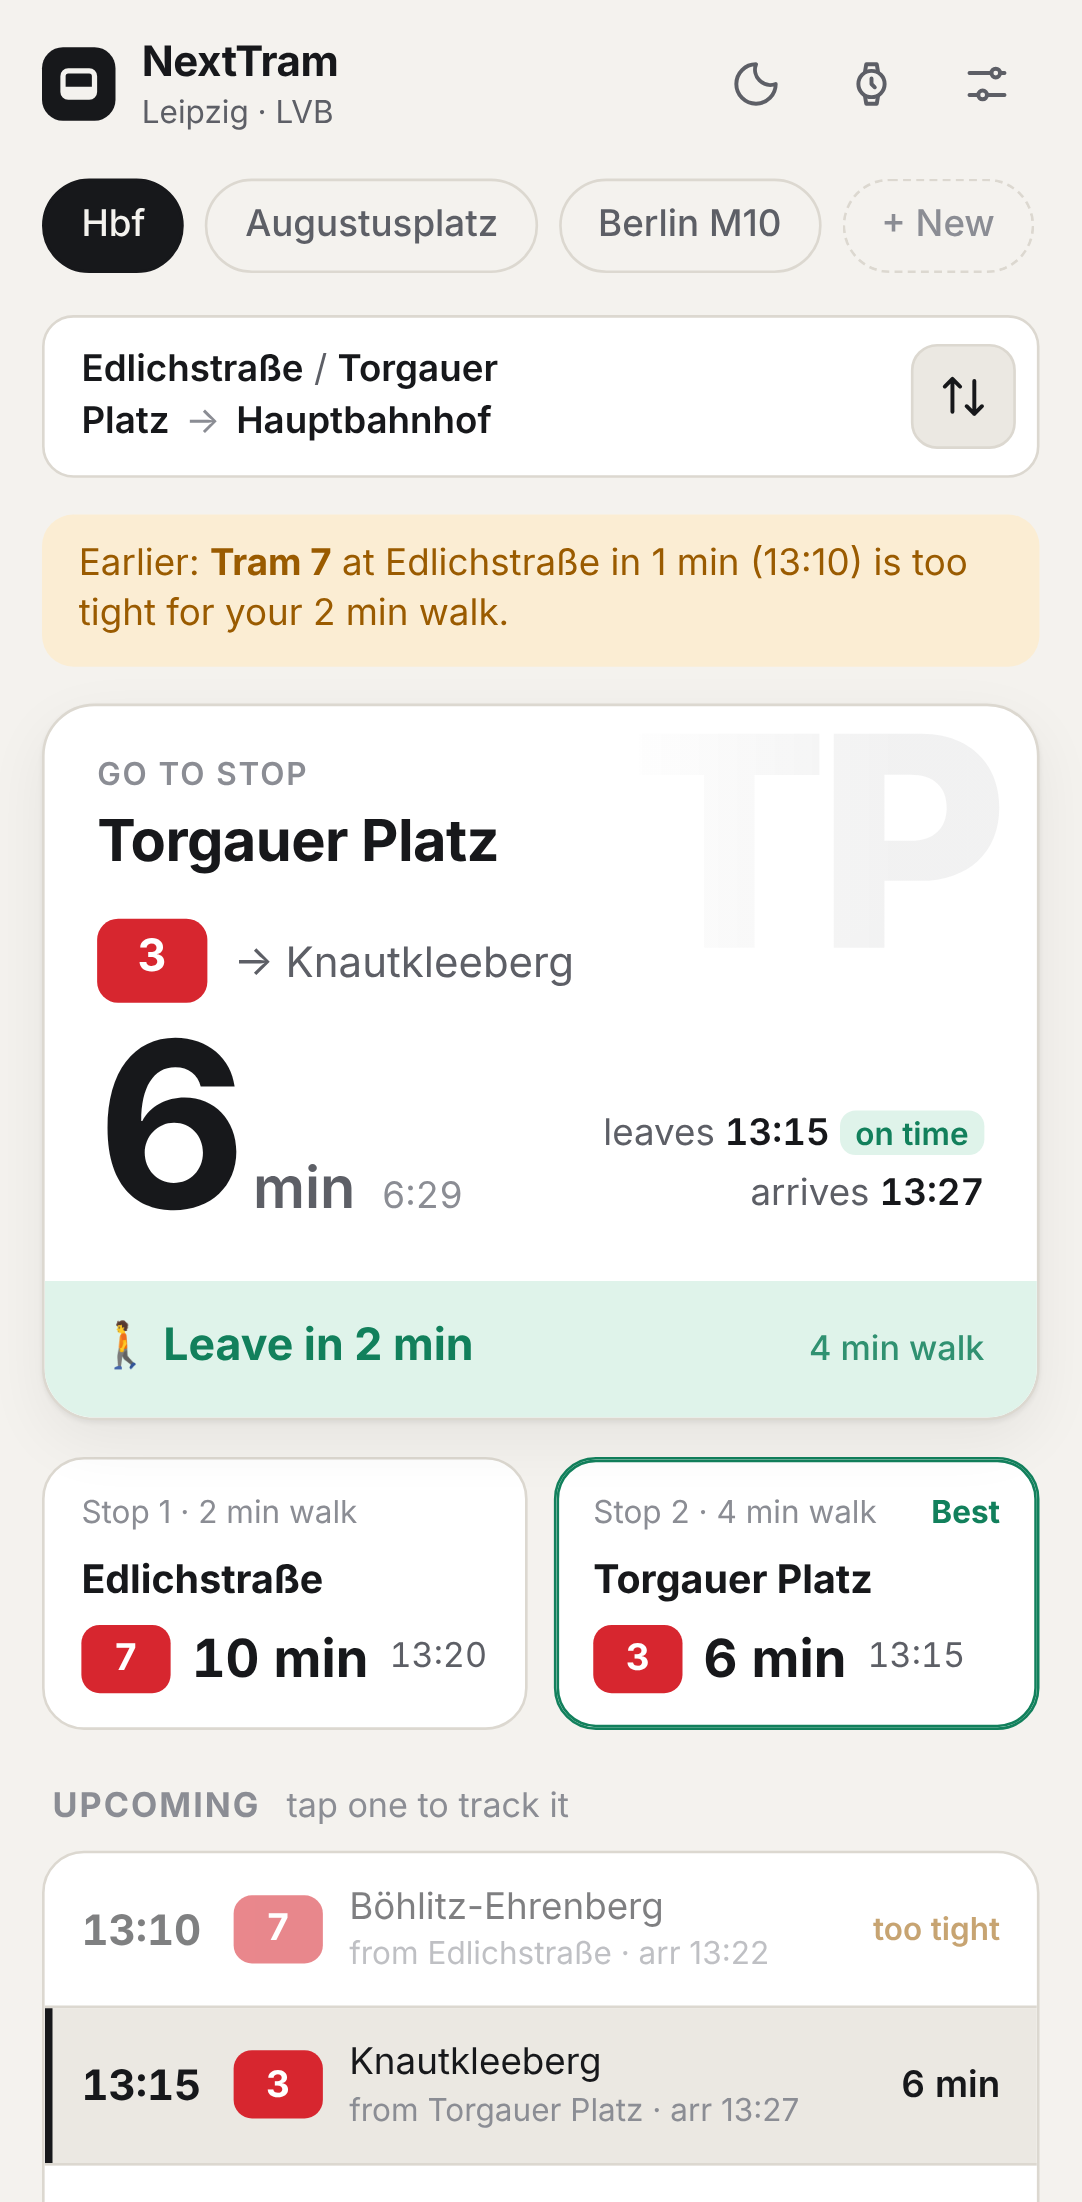
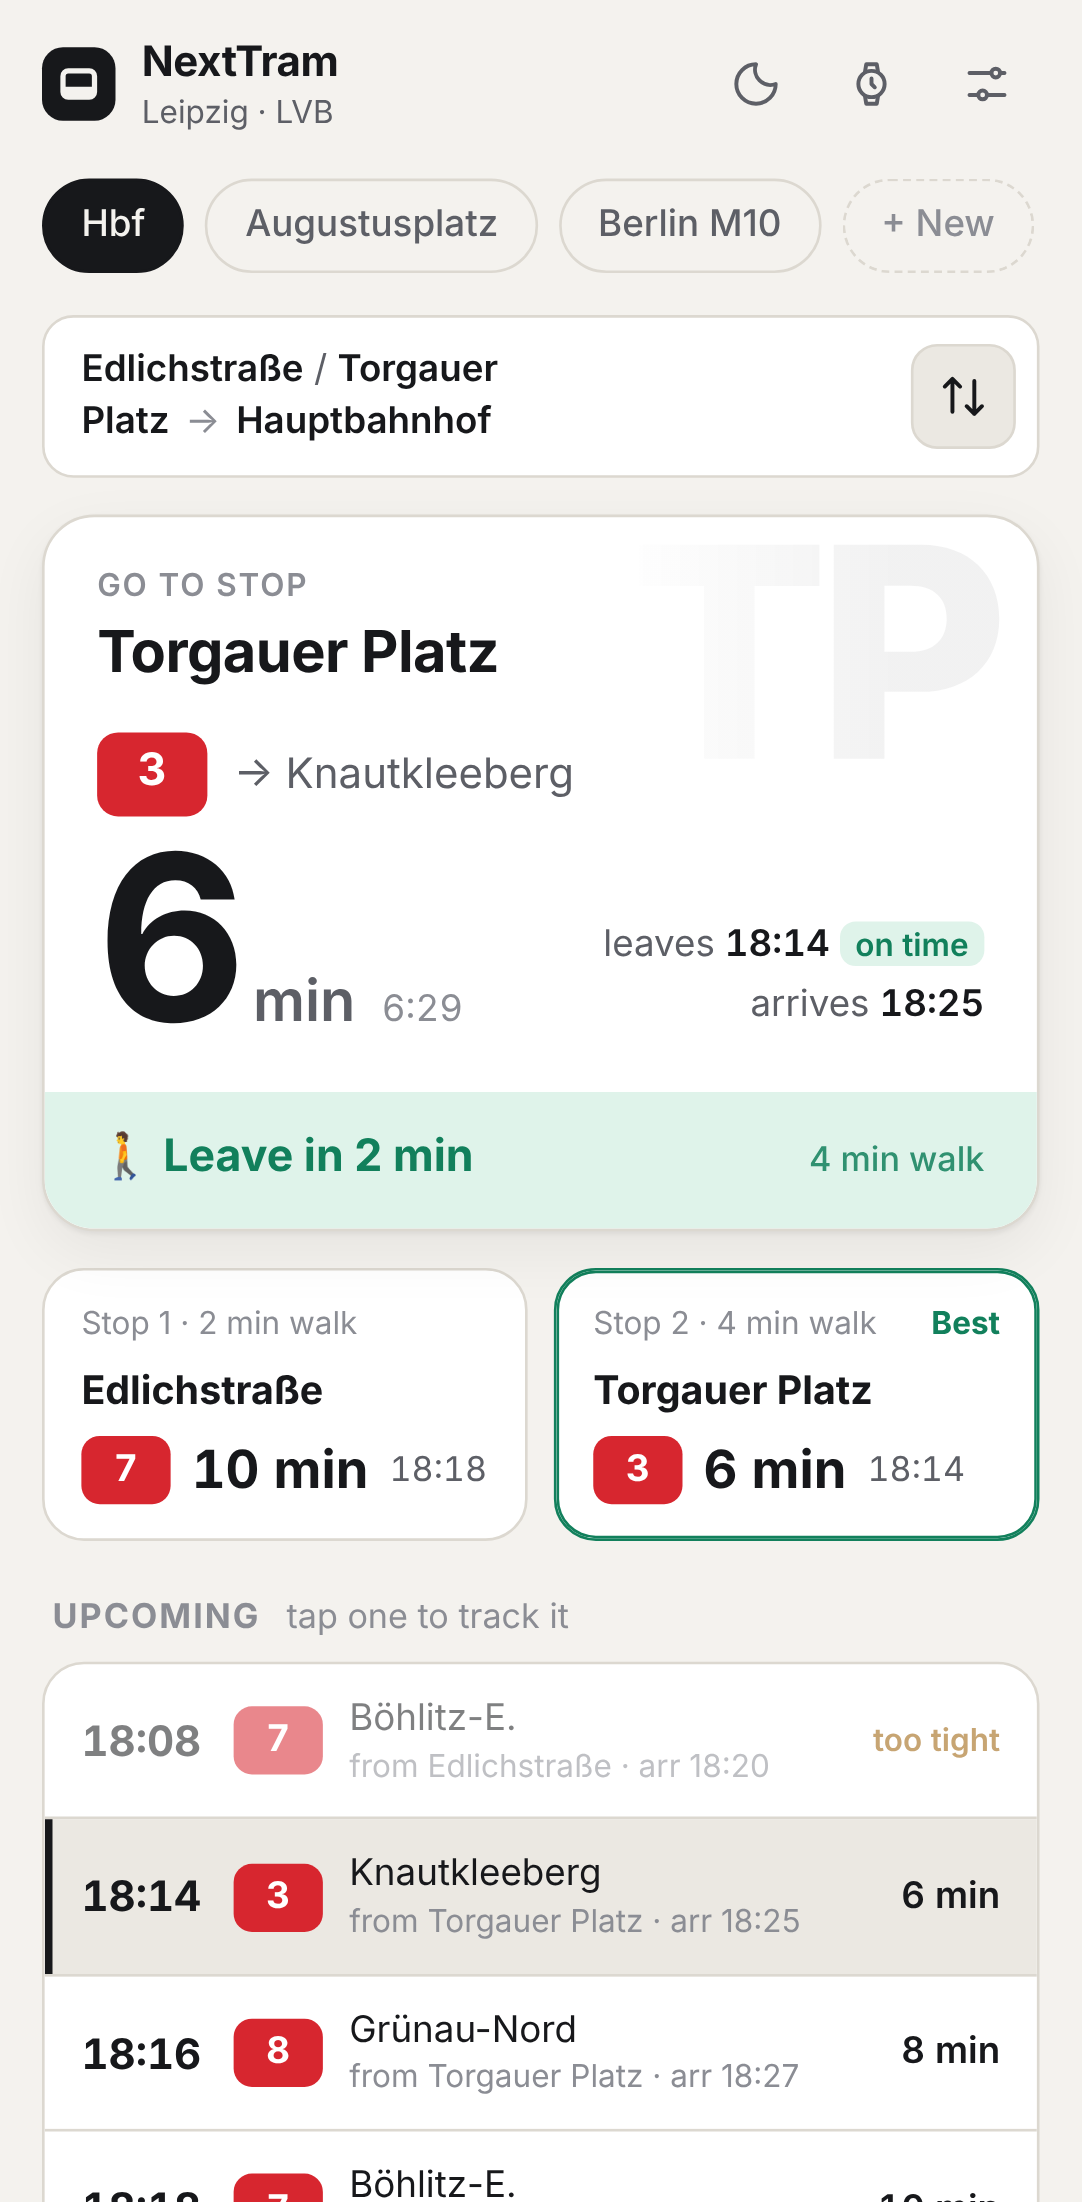
README: "Add to:" assistant watch above the watch view, fresh screenshots
The third column now shows a watch face that flips through Claude, ChatGPT,
Gemini and Alexa above the watch flow. Screenshots re-recorded without the
old too-tight banner, and the feature list matches the new setup.

Claude-Session: https://claude.ai/code/session_01Ggus8vtiwx6UXLupEbgL7Q

diff --git a/README.md b/README.md
@@ -5,9 +5,9 @@
   &nbsp;
   <img src="docs/screenshots/phone-light.png" alt="NextTram on a phone, light mode: go to Torgauer Platz, Tram 3 in 6 minutes, leave in 2 minutes" width="270">
   &nbsp;
-  <img src="docs/screenshots/watch-flow.gif" alt="Animation: stepping through the next trams on the watch with the arrow buttons" width="270">
+  <img src="docs/screenshots/watch-addto.gif" alt="Animation: an Add to watch face cycling through Claude, ChatGPT, Gemini and Alexa above the watch view stepping through the next trams" width="270">
 </p>
-<p align="center"><sub>Tracking a tram and the trip back, light mode, and stepping through trams on the watch. Screenshots use sample departures.</sub></p>
+<p align="center"><sub>Tracking a tram and the trip back, light mode, and the watch, which you can also ask through your assistant. Screenshots use sample departures.</sub></p>
 
 **"When is the next tram?"** answered with zero friction: which of your nearby stops to walk to, which tram you can still catch, and when to leave the house.
 
@@ -21,11 +21,12 @@ All three share one module, [`lib/transit.js`](lib/transit.js).
 
 ## How it decides
 
-- **Two home stops in parallel.** A route can have a Stop 1 and an optional Stop 2, each with its own walk time (default: Edlichstraße 2 min with Tram 7, Torgauer Platz 4 min with Trams 3 and 8). Both are checked at the same time and the results are merged.
-- **Walk buffer.** A tram that leaves sooner than your walk takes is *too tight*. It's skipped, and an amber notice tells you about it ("Earlier: Tram 7 at Edlichstraße in 1 min is too tight for your 2 min walk").
+- **Two home stops in parallel.** A route starts with one stop; **+ Add a second stop** adds another, each with its own walk time (default: Edlichstraße 2 min with Tram 7, Torgauer Platz 4 min with Trams 3 and 8). Both are checked at the same time and the results are merged.
+- **Walk buffer.** A tram that leaves sooner than your walk takes is *too tight*. It's skipped for the countdown and greyed out as "too tight" in the list.
+- **Punctuality as words.** early (yellow), on time, late (1–3 min), +late (4–7), ++late (8+). Tap a label for the explanation.
 - **Leave advice.** "🚶 Leave in 4 min" while you have time, "🏃 Leave now" once departure ≤ walk time.
 - **Tap to track.** Tap any upcoming departure or stop card to lock the countdown onto that tram until it leaves. "Back to fastest" returns to automatic mode.
-- **Trip back (⇅).** Reverses the route: from the destination to *both* home stops, so you take whichever gets you home first. The destination's own walk time is used.
+- **Trip back (⇅).** Reverses the route: from the destination to *both* home stops, so you take whichever gets you home first. No walk by default; **+ Add a walk for the trip back** sets one.
 - **Engines.** Leipzig uses [Transitous](https://transitous.org) (MOTIS, full MDV/LVB data with real time) and falls back to DB HAFAS (`v6.db.transport.rest`). Berlin uses BVG HAFAS (`v6.bvg.transport.rest`) and falls back to Transitous. A departure only counts if it boards *at the stop you chose*, not at another stop nearby.
 - **Stop names.** `edlichstr`, `Edlichstr.`, `Edlichstrasse` and `Edlichstraße` all match. Exact stop IDs are looked up once and remembered on the device.
 
